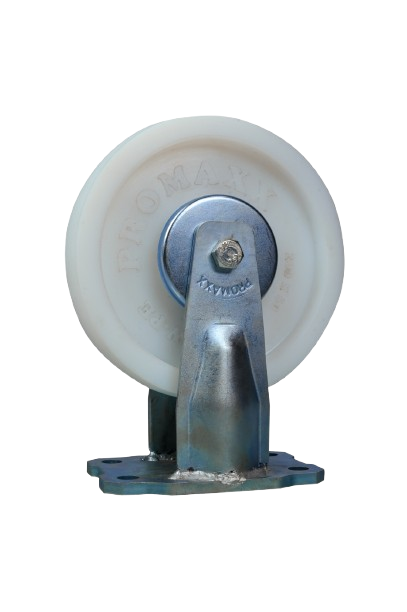
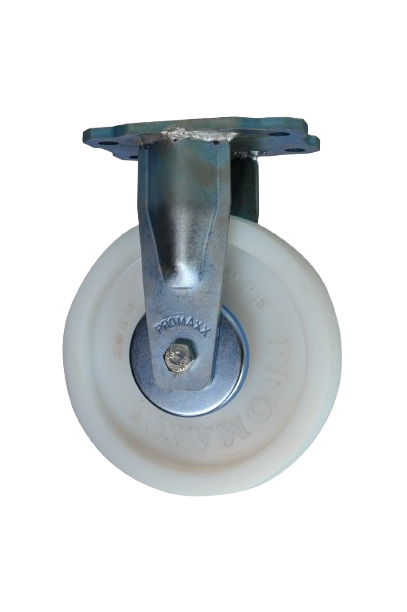
updated products

diff --git a/src/data/products.ts b/src/data/products.ts
@@ -60,7 +60,7 @@ export const products: Product[] = [
 },
 {
   id: 'fixed-castor',
-  name: 'Fixed Castor',
+  name: 'Fixed Castor (50)',
   group: 'Castors',
   category: 'Castor',
   image: images.castorFixed,
@@ -77,7 +77,7 @@ export const products: Product[] = [
 },
 {
   id: 'swivel-castor',
-  name: 'Swivel Castor',
+  name: 'Swivel Castor (50)',
   group: 'Castors',
   category: 'Castor',
   image: images.castorSwivel,
@@ -111,10 +111,10 @@ export const products: Product[] = [
 },
 {
   id: 'heavy-duty-fixed-castor',
-  name: 'Heavy-Duty Fixed Castor',
+  name: 'Heavy-Duty Fixed Castor (75)',
   group: 'Castors',
   category: 'Heavy-Duty Castor',
-  image: images.castorFixed,
+  image: images.castorFixedHD,
   imageAlt: 'Promaxx heavy-duty fixed industrial castor',
   description:
   'Reinforced fixed castor for higher load requirements in industrial environments.',
@@ -128,10 +128,10 @@ export const products: Product[] = [
 },
 {
   id: 'heavy-duty-swivel-castor',
-  name: 'Heavy-Duty Swivel Castor',
+  name: 'Heavy-Duty Swivel Castor (75)',
   group: 'Castors',
   category: 'Heavy-Duty Castor',
-  image: images.castorSwivel,
+  image: images.castorSwivelHD,
   imageAlt: 'Promaxx heavy-duty swivel industrial castor',
   description:
   'Reinforced swivel castor for higher loads where manoeuvrability is required.',
@@ -148,7 +148,7 @@ export const products: Product[] = [
   name: 'HD Rivet Castor',
   group: 'Castors',
   category: 'Heavy-Duty Castor',
-  image: images.castorFixed,
+  image: images.rivet,
   imageAlt: 'Promaxx heavy-duty rivet industrial castor',
   description:
   'Riveted heavy-duty construction for compact, robust castor assemblies.',
@@ -162,7 +162,7 @@ export const products: Product[] = [
 },
 {
   id: 'twin-castor',
-  name: 'Twin Castor',
+  name: 'Twin Castor Swivel',
   group: 'Castors',
   category: 'Castor',
   image: images.castorTwin,
@@ -176,6 +176,23 @@ export const products: Product[] = [
   applications: ['Storage facilities', 'Industrial equipment'],
   specifications: {},
   tags: ['Twin', 'Swivel']
+},
+{
+  id: 'twin-castor-fixed',
+  name: 'Twin Castor Fixed',
+  group: 'Castors',
+  category: 'Castor',
+  image: images.castorTwinFix,
+  imageAlt: 'Promaxx twin wheel industrial castor',
+  description:
+  'Twin wheel configuration that distributes load across two wheels.',
+  material: '',
+  diameter: '',
+  loadCapacity: '',
+  bracketType: 'Fixed',
+  applications: ['Storage facilities', 'Industrial equipment'],
+  specifications: {},
+  tags: ['Twin', 'Fixed']
 }];
 
 

diff --git a/src/data/site.ts b/src/data/site.ts
@@ -48,14 +48,22 @@ export const images = {
 
   castorFixed: "/fixhd50.png",
 
-  castorSwivel: "/swivel75.png",
+  castorFixedHD: "/fixhd75.png",
+
+  castorSwivel: "/swivel50.png",
+
+  castorSwivelHD: "/swivel75.png",
 
   castorBrake: "/brake.png",
 
   castorTwin: "/twin.png",
 
+  castorTwinFix: "/twinfix.png",
+
+  rivet: "/rivet.png",
+
   warehouse: "/6a68c887-22d0-4bb6-ab5a-3f8e85dde68a.jpg",
 
-  factory: "/cd938f13-038d-4ac5-abde-ecc0bce8f02c.jpg"
+  factory: "/factory1.png"
 
 };
